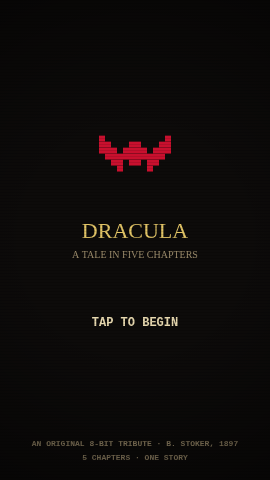
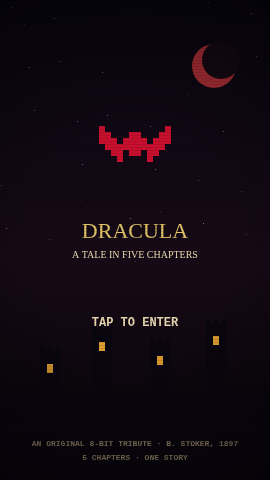
Give each game a unique, on-property title / menu / chapter screen
The framed screens were dry and identical across games. RetroSaga now supports
per-game theming hooks, and each game paints its own world:
- saga.js: scenery(api,scene,t) animated backdrop hook for boot/menu/intro/
  result/finale; per-chapter menu icon(api,x,y); custom bootCta, menuLabel,
  menuHint, menuDone.
- Dracula: gothic night — blood moon, castle towers with lit windows, drifting
  bats; chapter icons (bricks, ship, fly, cross, sun); "CHRONICLE OF THE COUNT".
- Sherlock: foggy Victorian moor — pale moon, rolling hills, a gaslamp, drifting
  fog; chapter icons (cane, tuft, pawprint, cut-note, glowing paw);
  "THE CASE FILES".
- Refreshed both title-screen thumbnails.
- Docs: unique on-property screens are now required for every game; keep CRT/
  terminal looks only for genuinely techy/sci-fi sources — faithfulness first.

Verified headless: boot/menu/intro render uniquely for both with zero errors.

Claude-Session: https://claude.ai/code/session_01WueWxXhk57hRoV9LoSWndo

diff --git a/js/saga.js b/js/saga.js
@@ -195,17 +195,19 @@
       if (flashObj) { ctx.globalAlpha = Math.max(0, flashObj.t / flashObj.max) * 0.8; clear(flashObj.col); ctx.globalAlpha = 1; }
     }
 
+    // Per-game animated background for the framed screens. A game supplies
+    // cfg.scenery(api, scene, t) to make its title/menu/etc unique & on-theme.
+    function backdrop(scene) {
+      if (cfg.scenery) cfg.scenery(api, scene, sceneT);
+      else clear(scene === 'menu' ? PAL.dark : PAL.ink);
+    }
     function drawBoot() {
-      clear(PAL.ink);
-      // emblem
-      const cx = W / 2, cy = H * 0.32;
-      ctx.globalAlpha = 0.5 + Math.sin(sceneT * 2) * 0.1;
-      gfx.circle(cx, cy, 30, 'rgba(0,0,0,0)');
-      ctx.globalAlpha = 1;
+      backdrop('boot');
+      const cx = W / 2, cy = H * 0.30;
       if (cfg.emblem) cfg.emblem(api, cx, cy);
       txtC((cfg.title || '').toUpperCase(), cx, H * 0.46, 22, PAL.gold, true);
-      txtC(cfg.subtitle || (chapters.length + ' CHAPTERS'), cx, H * 0.46 + 30, 10, PAL.dim, true);
-      if (Math.floor(sceneT * 1.5) % 2 === 0) txtC('TAP TO BEGIN', cx, H * 0.66, 12, PAL.cream);
+      txtC(cfg.subtitle || (chapters.length + ' CHAPTERS'), cx, H * 0.46 + 30, 10, PAL.cream, true);
+      if (Math.floor(sceneT * 1.5) % 2 === 0) txtC(cfg.bootCta || 'TAP TO BEGIN', cx, H * 0.66, 12, PAL.cream);
       txtC(cfg.credit || 'AN ORIGINAL PIXEL TRIBUTE', cx, H - 40, 8, PAL.dim);
       txtC(cfg.bootLine || (chapters.length + ' CHAPTERS · ONE STORY'), cx, H - 26, 8, PAL.dim);
       vignette(); scanlines();
@@ -217,27 +219,29 @@
       return (i >= 0 && i < chapters.length) ? i : -1;
     }
     function drawMenu() {
-      clear(PAL.dark);
-      txtC((cfg.title || '').toUpperCase(), W / 2, 24, 16, PAL.gold, true);
-      txtC('CHOOSE YOUR CHAPTER', W / 2, 52, 9, PAL.dim);
-      txtC(CUR + '  ' + respect(), W / 2, 70, 9, PAL.cream);
+      backdrop('menu');
+      txtC((cfg.title || '').toUpperCase(), W / 2, 22, 16, PAL.gold, true);
+      txtC(cfg.menuLabel || 'CHOOSE YOUR CHAPTER', W / 2, 50, 9, PAL.dim);
+      txtC(CUR + '  ' + respect(), W / 2, 68, 9, PAL.cream);
       for (let i = 0; i < chapters.length; i++) {
-        const c = chapters[i], y = MENU_TOP + i * ROW_H;
+        const ch = chapters[i], y = MENU_TOP + i * ROW_H;
         const selp = (i === menuSel);
-        panel(14, y, W - 28, ROW_H - 8, selp ? 'rgba(40,26,14,.92)' : 'rgba(10,7,4,.82)');
-        const done = save.done[c.id];
-        txt((i + 1) + '. ' + c.name, 24, y + 8, 10, done ? PAL.gold : PAL.cream);
-        txt(c.sub || '', 24, y + 24, 9, PAL.dim);
-        if (done) txt('✓ ' + (save.best[c.id] || 0), W - 70, y + 14, 9, PAL.gold);
-        else txt('▶', W - 34, y + 14, 11, selp ? PAL.cream : PAL.dim);
+        panel(14, y, W - 28, ROW_H - 8, selp ? 'rgba(30,22,14,.9)' : 'rgba(8,6,4,.7)');
+        let tx = 24;
+        if (ch.icon) { ch.icon(api, 32, y + (ROW_H - 8) / 2); tx = 50; }
+        const done = save.done[ch.id];
+        txt((i + 1) + '. ' + ch.name, tx, y + 8, 10, done ? PAL.gold : PAL.cream);
+        txt(ch.sub || '', tx, y + 24, 9, PAL.dim);
+        if (done) txt('✓ ' + (save.best[ch.id] || 0), W - 72, y + 14, 9, PAL.gold);
+        else txt('▶', W - 32, y + 14, 11, selp ? PAL.cream : PAL.dim);
       }
-      if (allDone()) txtC('★ ALL CHAPTERS CLEARED ★', W / 2, H - 24, 9, PAL.gold);
-      else txtC('TAP A CHAPTER TO PLAY', W / 2, H - 22, 8, PAL.dim);
+      if (allDone()) txtC('★ ' + (cfg.menuDone || 'ALL CHAPTERS CLEARED') + ' ★', W / 2, H - 22, 9, PAL.gold);
+      else txtC(cfg.menuHint || 'TAP A CHAPTER TO PLAY', W / 2, H - 20, 8, PAL.dim);
       vignette(); scanlines();
     }
 
     function drawIntro() {
-      clear(PAL.ink);
+      backdrop('intro');
       txtC('CHAPTER ' + (curIndex + 1), W / 2, 54, 9, PAL.dim);
       txtC(cur.name, W / 2, 74, 15, PAL.gold, true);
       txtC(cur.sub || '', W / 2, 100, 9, PAL.blood);
@@ -267,7 +271,7 @@
     }
 
     function drawFinale() {
-      clear(PAL.ink);
+      backdrop('finale');
       if (cfg.emblem) cfg.emblem(api, W / 2, H * 0.3);
       lines(cfg.finale || ['THE LEGEND IS COMPLETE.'], W / 2, H * 0.46, 11, PAL.gold, 18);
       txtC('FINAL ' + CUR + '  ' + respect(), W / 2, H * 0.66, 11, PAL.cream);

diff --git a/games/dracula-castle/game.js b/games/dracula-castle/game.js
@@ -25,6 +25,24 @@
     ], cx - 36, cy - 18, { r: '#c8102e' }, 6);
   }
 
+  // gothic night backdrop for the title / menu / story screens
+  function scenery(api, scene, t) {
+    const g = api.gfx, c = api.ctx, W = api.W, H = api.H;
+    const sky = c.createLinearGradient(0, 0, 0, H);
+    sky.addColorStop(0, '#0a0612'); sky.addColorStop(0.55, '#160a16'); sky.addColorStop(1, '#070409');
+    c.fillStyle = sky; c.fillRect(0, 0, W, H);
+    for (let i = 0; i < 44; i++) { const x = (i * 53 + 11) % W, y = (i * 97 + 7) % Math.floor(H * 0.55); c.globalAlpha = 0.25 + 0.3 * Math.sin(t * 2 + i); g.rect(x, y, 1, 1, '#cdbfe0'); } c.globalAlpha = 1;
+    if (scene !== 'menu') { g.circle(W - 56, 66, 22, '#b03038'); g.circle(W - 49, 60, 19, '#160a14'); }
+    const baseY = H - 84; c.fillStyle = '#0a0610';
+    c.beginPath(); c.moveTo(0, baseY);
+    for (let x = 0; x <= W; x += 18) c.lineTo(x, baseY - 6 - ((x * 7) % 14)); c.lineTo(W, H); c.lineTo(0, H); c.closePath(); c.fill();
+    const towers = [[40, 44], [92, 66], [150, 52], [206, 72]];
+    for (const tw of towers) { c.fillStyle = '#0a0610'; c.fillRect(tw[0], baseY - tw[1], 20, tw[1]); for (let bx = 0; bx < 20; bx += 8) c.fillRect(tw[0] + bx, baseY - tw[1] - 5, 5, 5); g.rect(tw[0] + 7, baseY - tw[1] + 12, 6, 9, '#e3a030'); }
+    for (let i = 0; i < 5; i++) { const bx = (t * 26 + i * 64) % (W + 40) - 20, by = 116 + Math.sin(t * 2 + i) * 16 + i * 10; const flap = Math.sin(t * 12 + i) > 0; g.sprite(flap ? ['k.kk.k', '.kkkk.'] : ['.k..k.', 'kkkkkk'], bx, by, { k: '#120814' }, 2); }
+    if (scene === 'intro' || scene === 'finale' || scene === 'result') { c.fillStyle = 'rgba(6,3,9,.62)'; c.fillRect(0, 0, W, H); }
+    else if (scene === 'menu') { c.fillStyle = 'rgba(6,3,9,.42)'; c.fillRect(0, 0, W, H); }
+  }
+
   RetroSaga.create({
     id: 'dracula',
     title: 'Dracula',
@@ -33,6 +51,11 @@
     accent: '#e3c567',
     credit: 'AN ORIGINAL 8-BIT TRIBUTE · B. STOKER, 1897',
     emblem,
+    scenery,
+    bootCta: 'TAP TO ENTER',
+    menuLabel: 'CHRONICLE OF THE COUNT',
+    menuHint: 'CHOOSE A CHAPTER TO BEGIN',
+    menuDone: 'THE COUNT IS UNDONE',
     finale: ['THE COUNT IS DUST.', 'THE CRIMSON DAWN', 'BREAKS CLEAN.', '', 'HARKER GOES HOME.'],
     width: 270, height: 480, parent: '#game',
     palette: { gold: '#e3c567', blood: '#c8102e' },
@@ -41,6 +64,7 @@
       /* ============================ 2. THE WALL ======================== */
       {
         id: 'wall', name: 'THE CASTLE WALL', sub: 'A THING OF DARKNESS',
+        icon(api, x, y) { const g = api.gfx; g.rect(x - 7, y - 6, 14, 12, '#4a3f5a'); g.rect(x - 7, y - 2, 14, 1, '#1b1726'); g.rect(x - 1, y - 6, 1, 12, '#1b1726'); g.rect(x - 7, y - 6, 7, 1, '#1b1726'); },
         intro: ['HARKER SEES THE COUNT', 'CRAWL DOWN THE SHEER', 'WALL LIKE A LIZARD.', 'He must climb it too.'],
         quote: 'I saw the whole man slowly emerge and begin to crawl down the castle wall.',
         help: 'TAP when the grip lines up with the green',
@@ -85,6 +109,7 @@
       /* ============================ 3. THE DEMETER ===================== */
       {
         id: 'demeter', name: 'THE DEMETER', sub: 'A SHIP OF THE DEAD',
+        icon(api, x, y) { const g = api.gfx; g.rect(x - 1, y - 7, 2, 9, '#5a3f28'); g.sprite(['w..', 'ww.', 'www'], x + 1, y - 6, { w: '#cabfa0' }, 2); g.rect(x - 8, y + 2, 16, 3, '#3a2a1a'); },
         intro: ['DRACULA SAILS TO ENGLAND', 'IN THE HOLD OF THE DEMETER.', 'ONE BY ONE THE CREW', 'vanish in the dark.'],
         quote: 'God seems to have deserted us... the men are gone, all gone.',
         help: 'TAP the glowing hatch before the shadow takes the crew',
@@ -135,6 +160,7 @@
       /* ========================= 3b. RENFIELD ======================== */
       {
         id: 'renfield', name: 'RENFIELD', sub: "DR SEWARD'S ASYLUM",
+        icon(api, x, y) { const g = api.gfx; g.rect(x - 2, y - 1, 4, 3, '#101010'); g.rect(x - 5, y - 2, 3, 1, '#cfe0d0'); g.rect(x + 2, y - 2, 3, 1, '#cfe0d0'); },
         intro: ['IN THE ASYLUM, RENFIELD', 'DEVOURS FLIES AND SPIDERS', 'TO DRINK THEIR LIVES —', 'his Master draws near.'],
         quote: 'The blood is the life! The blood is the life!',
         help: 'TAP the flies & spiders to fill the jar',
@@ -182,6 +208,7 @@
       /* ============================ 4. LUCY'S TOMB ===================== */
       {
         id: 'lucy', name: "LUCY'S TOMB", sub: 'RELEASE HER SOUL',
+        icon(api, x, y) { const g = api.gfx; g.rect(x - 1, y - 7, 2, 14, '#caa15a'); g.rect(x - 5, y - 3, 10, 2, '#caa15a'); },
         intro: ['LUCY WALKS AS THE', 'BLOOFER LADY. VAN HELSING', 'GIVES ARTHUR THE STAKE.', 'Strike true. Strike clean.'],
         quote: 'The thing in the coffin writhed... but Arthur never faltered.',
         help: 'TAP when the ring meets the heart',
@@ -223,6 +250,7 @@
       /* ============================ 5. THE RECKONING =================== */
       {
         id: 'reckoning', name: 'THE RECKONING', sub: 'RACE THE SUNSET',
+        icon(api, x, y) { const g = api.gfx; g.circle(x, y, 5, '#ff8a3d'); for (let a = 0; a < 8; a++) { const ang = a / 8 * Math.PI * 2; g.rect(x + Math.cos(ang) * 8 - 1, y + Math.sin(ang) * 8 - 1, 2, 2, '#ff8a3d'); } },
         intro: ['THE BOX IS HAULED TO', 'CASTLE DRACULA. IF THE SUN', 'SETS, THE COUNT WAKES.', 'Catch the cart. End it.'],
         quote: 'If we are not in time, he will wake — and never sleep again.',
         help: 'Steer to catch the cart · TAP to strike at the heart',

diff --git a/games/sherlock-hound/game.js b/games/sherlock-hound/game.js
@@ -36,6 +36,22 @@
     return m;
   }
 
+  // foggy Victorian moor backdrop for the title / menu / story screens
+  function scenery(api, scene, t) {
+    const g = api.gfx, c = api.ctx, W = api.W, H = api.H;
+    const sky = c.createLinearGradient(0, 0, 0, H);
+    sky.addColorStop(0, '#0c1418'); sky.addColorStop(0.6, '#0e1612'); sky.addColorStop(1, '#080c0a');
+    c.fillStyle = sky; c.fillRect(0, 0, W, H);
+    g.circle(56, 70, 18, '#cdd6c8'); g.circle(63, 64, 15, '#0e1612');
+    const hills = [['#101a14', H - 70, 26], ['#0c150f', H - 40, 18]];
+    for (const hh of hills) { c.fillStyle = hh[0]; c.beginPath(); c.moveTo(0, H); for (let x = 0; x <= W; x += 10) c.lineTo(x, hh[1] - Math.sin(x * 0.04 + hh[2]) * hh[2] * 0.4 - hh[2] * 0.4); c.lineTo(W, H); c.closePath(); c.fill(); }
+    g.rect(W - 50, H - 96, 3, 40, '#1a2018'); g.rect(W - 54, H - 100, 11, 8, '#243024');
+    c.globalAlpha = 0.14; g.circle(W - 48, H - 95, 16, '#e8d27a'); c.globalAlpha = 1; g.circle(W - 48, H - 95, 4, '#e8d27a');
+    for (let i = 0; i < 5; i++) { c.globalAlpha = 0.06; const fy = 110 + i * 60 + Math.sin(t * 0.6 + i) * 8, fx = (t * (8 + i * 3)) % (W + 80) - 40; g.rect(fx, fy, 90, 16, '#9fb8a4'); g.rect(fx - 60, fy + 6, 70, 12, '#9fb8a4'); c.globalAlpha = 1; }
+    if (scene === 'intro' || scene === 'finale' || scene === 'result') { c.fillStyle = 'rgba(6,10,8,.6)'; c.fillRect(0, 0, W, H); }
+    else if (scene === 'menu') { c.fillStyle = 'rgba(6,10,8,.4)'; c.fillRect(0, 0, W, H); }
+  }
+
   RetroSaga.create({
     id: 'baskervilles',
     title: 'Baskervilles',
@@ -46,6 +62,11 @@
     bootLine: 'FIVE CHAPTERS · ONE MYSTERY',
     tagline: 'A POLECAT MYSTERY',
     emblem,
+    scenery,
+    bootCta: 'TAP TO INVESTIGATE',
+    menuLabel: 'THE CASE FILES',
+    menuHint: 'OPEN A CHAPTER TO INVESTIGATE',
+    menuDone: 'THE CASE IS CLOSED',
     finale: ['THE HOUND IS NO PHANTOM —', 'ONLY PHOSPHOR AND MALICE.', 'STAPLETON SINKS INTO', 'THE MIRE. CASE CLOSED.'],
     width: 270, height: 480, parent: '#game',
     palette: { gold: '#cde8b0', blood: '#c8102e' },
@@ -54,6 +75,7 @@
       /* ===================== 1. THE WALKING STICK ====================== */
       {
         id: 'stick', name: 'THE WALKING STICK', sub: '221B BAKER STREET',
+        icon(api, x, y) { const g = api.gfx; g.rect(x - 1, y - 7, 2, 13, '#7a5a2a'); g.circle(x, y - 7, 3, '#caa15a'); },
         intro: ['A VISITOR LEFT HIS CANE', 'AT BAKER STREET. READ THE', 'MAN FROM HIS STICK', 'as Holmes would.'],
         quote: 'You are a conductor of light. Some people without possessing genius have a remarkable power of stimulating it.',
         help: 'TAP the four clues on the cane',
@@ -105,6 +127,7 @@
       /* ====================== 2. THE GRIMPEN MIRE ===================== */
       {
         id: 'mire', name: 'THE GRIMPEN MIRE', sub: 'ONE FALSE STEP',
+        icon(api, x, y) { const g = api.gfx; g.sprite(['.ggg.', 'ggggg', '.bbb.'], x - 5, y - 4, { g: '#5a7a3a', b: '#3a2a1a' }, 2); },
         intro: ['ONLY TUFTS OF GRASS GIVE', 'SAFE FOOTING ON THE GREAT', 'GRIMPEN MIRE. TIME EACH HOP', 'or be sucked under.'],
         quote: 'A false step yonder means death to man or beast.',
         help: 'TAP to hop when a tuft reaches the line',
@@ -145,6 +168,7 @@
       /* ========================== 3. THE MOOR ======================== */
       {
         id: 'moor', name: 'THE MOOR', sub: 'THE TRACKS OF A HOUND',
+        icon(api, x, y) { const g = api.gfx; g.circle(x, y + 3, 3, '#9aa89a'); g.circle(x - 4, y - 2, 1.6, '#9aa89a'); g.circle(x, y - 4, 1.6, '#9aa89a'); g.circle(x + 4, y - 2, 1.6, '#9aa89a'); },
         intro: ['MILES OF FOG-BOUND MOOR.', 'SOMEWHERE OUT THERE THE', 'BEAST LEFT ITS TRACKS.', 'Gather the clues, find the cairn.'],
         quote: 'Mr. Holmes, they were the footprints of a gigantic hound!',
         help: 'DRAG / arrows to explore · gather clues, reach the cairn',
@@ -208,6 +232,7 @@
       /* ========================= 4. THE WARNING ====================== */
       {
         id: 'warning', name: 'THE WARNING', sub: 'CUT FROM THE TIMES',
+        icon(api, x, y) { const g = api.gfx; g.rect(x - 6, y - 7, 12, 14, '#d8c89a'); g.rect(x - 3, y - 4, 8, 1, '#5a4a2a'); g.rect(x - 3, y - 1, 8, 1, '#5a4a2a'); g.rect(x - 3, y + 2, 5, 1, '#5a4a2a'); },
         intro: ['A NOTE OF PASTED WORDS', 'WARNS SIR HENRY OFF.', 'PIECE THE MESSAGE BACK', 'together, word by word.'],
         quote: 'As you value your life or your reason, keep away from the moor.',
         help: 'TAP the words in the right order',
@@ -259,6 +284,7 @@
       /* ========================== 5. THE HOUND ======================= */
       {
         id: 'hound', name: 'THE HOUND', sub: 'A CREATURE OF FIRE',
+        icon(api, x, y) { const g = api.gfx; api.ctx.globalAlpha = 0.6; g.circle(x, y, 8, '#1aff6a'); api.ctx.globalAlpha = 1; g.circle(x, y + 3, 3, '#0a1a0e'); g.circle(x - 4, y - 2, 1.6, '#0a1a0e'); g.circle(x, y - 4, 1.6, '#0a1a0e'); g.circle(x + 4, y - 2, 1.6, '#0a1a0e'); },
         intro: ['FROM THE FOG IT COMES —', 'A GIANT HOUND, ITS JAWS', 'AND EYES AFLAME WITH', 'phosphorus. Fire!'],
         quote: 'A hound it was, an enormous coal-black hound, but not such a hound as mortal eyes have ever seen.',
         help: 'TAP the hound to fire · keep it off Sir Henry',

diff --git a/BUILD_LOOP.md b/BUILD_LOOP.md
@@ -63,9 +63,14 @@ big feedback (shake/flash/particles). Variety across the five is the whole point
 borrow the *ideas*, never copy them):
 - Give the game a **voice/host with personality** — narrate the interstitials and
   win/lose lines in-character (a storyteller, a machine, a villain).
-- A short **boot / terminal / "establishing" intro** before the title fits techy
-  or eerie properties (War of the Worlds, The Time Machine, Metropolis,
-  Frankenstein's lab, Cthulhu) — type-on text, CRT scanlines.
+- **Unique, on-property title/menu screens are required**, not the default
+  gold-on-black. Give each game its own `scenery(api,scene,t)` animated backdrop
+  (paint the story's world), per-chapter menu `icon`s, and custom labels
+  (`menuLabel`, `bootCta`, `currency`, etc.). Stay FAITHFUL to the source's era
+  and mood — Dracula is gothic, Sherlock is a foggy Victorian moor.
+- A CRT / terminal / type-on "establishing" intro is great BUT only where the
+  source actually supports it — genuinely techy/sci-fi works (War of the Worlds,
+  The Time Machine, Metropolis). Never use CRT as a default; faithfulness first.
 - **Witty locked entries:** a chapter or bonus module can be gated with an
   in-character message; sequential unlocks give a sense of progress (optional —
   default is free chapter choice for accessibility).

diff --git a/CLAUDE.md b/CLAUDE.md
@@ -44,6 +44,15 @@ t, score, addScore(n), win(), lose(), shake(a,t), flash(c,t), burst(x,y,c,n),
 confirm(), keyDown(b), keyPressed(b), clear/txt/txtC/lines/panel/topBar/
 vignette/scanlines, colors`.
 
+**Make the framed screens unique & on-property** (not the default gold-on-black).
+Every game MUST supply: `emblem(api,cx,cy)`, `scenery(api,scene,t)` (an animated
+backdrop for boot/menu/intro/result/finale — paint the story's world, e.g.
+gothic castle for Dracula, foggy moor for Sherlock), a per-chapter `icon(api,x,y)`
+(themed glyph in the menu), and custom `currency`, `subtitle`, `bootCta`,
+`menuLabel`, `menuHint`, `menuDone`, `bootLine`, `finale`. Stay FAITHFUL to the
+source — match its era/mood. Reserve CRT/terminal looks for genuinely techy or
+sci-fi works (War of the Worlds, Time Machine, Metropolis); never as a default.
+
 The five existing single-mechanic games (sherlock, alice, oz, frankenstein) are
 legacy — upgrade them to sagas as the loop comes around to them.
 